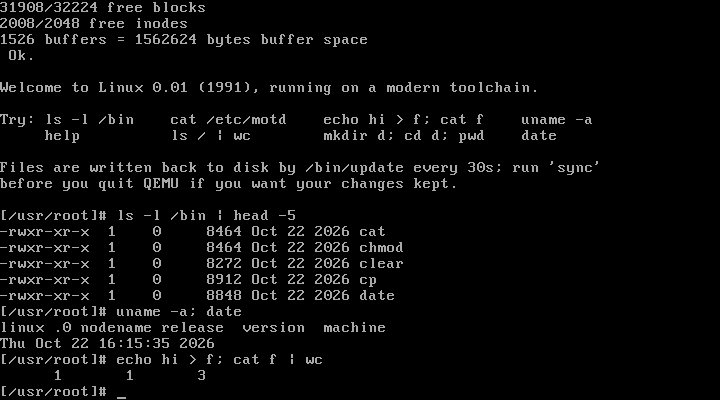
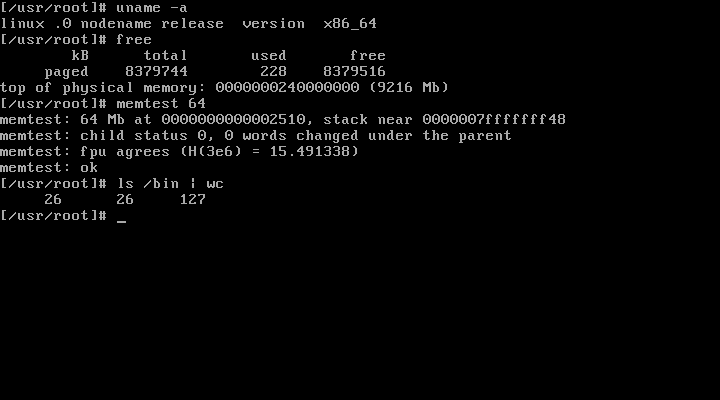
Docs and smoke test for the 64-bit port
The smoke test runs qemu-system-x86_64 with 6Gb, so processes live
above 4Gb, and checks uname -m and memtest. The README describes the
64-bit design. Stop tracking Python's __pycache__.

Claude-Session: https://claude.ai/code/session_0164EhquaVriyv3Nfyqho6ES

diff --git a/tools/smoketest.py b/tools/smoketest.py
@@ -30,14 +30,14 @@ SHIFTED = {'!': '1', '@': '2', '#': '3', '$': '4', '%': '5', '^': '6',
 
 
 class Vm:
-    def __init__(self, image, hd, geom, qemu):
+    def __init__(self, image, hd, geom, qemu, mem):
         self.tmp = tempfile.mkdtemp(prefix='linux001-')
         self.sock = os.path.join(self.tmp, 'monitor')
         disk = os.path.join(self.tmp, 'hd.img')
         shutil.copy(hd, disk)
         cyls, heads, secs = geom
         self.proc = subprocess.Popen(
-            [qemu, '-m', '16', '-display', 'none', '-boot', 'a',
+            [qemu, '-m', mem, '-display', 'none', '-boot', 'a',
              '-drive', 'file=%s,if=floppy,format=raw,readonly=on' % image,
              '-drive', 'file=%s,if=none,id=hd0,format=raw' % disk,
              '-device', 'ide-hd,drive=hd0,bus=ide.0,cyls=%d,heads=%d,secs=%d'
@@ -104,13 +104,16 @@ def main():
     ap.add_argument('--geometry', default='64,16,63', help='cyls,heads,secs')
     ap.add_argument('--bin', default='userland/build/bin',
                     help='staged programs, to work out expected output')
-    ap.add_argument('--qemu', default='qemu-system-i386')
+    ap.add_argument('--qemu', default='qemu-system-x86_64')
+    ap.add_argument('--mem', default='6G',
+                    help='guest memory; over 4G puts processes above 4Gb')
     a = ap.parse_args()
 
     nprogs = len(os.listdir(a.bin))
     shsize = os.path.getsize(os.path.join(a.bin, 'sh'))
     tests = [
         ('uname -s', 'linux .0'),
+        ('uname -m', 'x86_64'),
         ('echo pipe-ok | cat', 'pipe-ok'),
         ('echo one two three | wc -w', '%7d' % 3),
         ('echo redirected > /tmp/f; cat /tmp/f', 'redirected'),
@@ -127,10 +130,13 @@ def main():
         # several processes queueing disk writes at once (hd.c request list)
         ('cp /bin/sh /tmp/w1 & cp /bin/ls /tmp/w2 & sync; sync; echo sync-ok',
          'sync-ok'),
+        # copy-on-write over a fork, and the fpu state of two processes
+        ('memtest 16', 'memtest: ok', 120),
         ('exit 5', lambda l: re.match(r'child \d+ died with code 0500', l)),
     ]
 
-    vm = Vm(a.image, a.hd, [int(x) for x in a.geometry.split(',')], a.qemu)
+    vm = Vm(a.image, a.hd, [int(x) for x in a.geometry.split(',')], a.qemu,
+            a.mem)
     failed = 0
     try:
         prompt = lambda l: l.startswith('[/usr/root]#')
@@ -139,10 +145,12 @@ def main():
             print('\n'.join(l for l in vm.lines() if l))
             return 1
         print('ok   boot to shell prompt')
-        for cmd, expect in tests:
+        for test in tests:
+            cmd, expect = test[:2]
+            timeout = test[2] if len(test) > 2 else 15
             vm.type(cmd + '\n')
             check = expect if callable(expect) else (lambda l, e=expect: l == e)
-            if vm.wait_for(check, 15):
+            if vm.wait_for(check, timeout):
                 print('ok   %s' % cmd)
             else:
                 failed += 1

diff --git a/README.md b/README.md
@@ -1,54 +1,72 @@
-# Linux 0.01, on a modern toolchain
+# Linux 0.01, 64-bit
 
 This is Linus Torvalds' Linux 0.01 from September 1991, taken from the
-[kernel.org historic archive](https://cdn.kernel.org/pub/linux/kernel/Historic/linux-0.01.tar.gz),
-patched so it builds with a current GCC and binutils and boots to a working
-shell in QEMU.
+[kernel.org historic archive](https://cdn.kernel.org/pub/linux/kernel/Historic/linux-0.01.tar.gz)
+and ported to x86-64. The kernel runs in 64-bit long mode, the programs are
+64-bit, and every byte of RAM the BIOS reports is usable, including memory
+above 4 GB (up to a configurable 64 GB). It boots to a working shell in
+QEMU.
 
-The first commit in this repository is the untouched 1991 tarball, so
-`git diff <first commit>` shows every change made.
+It is still recognisably 0.01: the scheduler, the file system, the tty
+code, the buffer cache and most of the rest are the 1991 code. What had to
+be redesigned is the part 64-bit mode took away (segmentation and hardware
+task switching), described below.
 
-![Linux 0.01 running in QEMU](docs/screenshot.png)
+The history tells the story:
+- The first commit is the untouched 1991 tarball.
+- `8b8a4bb` is a 32-bit port that only modernises the toolchain.
+- The commits after it are the 64-bit port.
+
+![Linux 0.01 running in 64-bit mode in QEMU](docs/screenshot.png)
 
 ## Quick start
 
-You need `gcc` and binutils that can target 32-bit x86 (any x86-64 Linux
-distribution's normal packages; no multilib or libc needed), GNU `make`,
-`python3` and `qemu-system-i386`.
+You need:
+- `gcc` and binutils for x86-64 (the normal packages on any x86-64 Linux)
+- GNU `make`
+- `python3`
+- `qemu-system-x86_64`
 
 ```sh
-make run          # build everything and boot it in a QEMU window
-make run-curses   # same, in the terminal (Alt-2 for the QEMU monitor, then "quit")
-make test         # headless boot + scripted shell session, checks the output
+make run            # build everything, boot it in QEMU with 512 MB
+make run MEM=8G     # ... or with more memory
+make run-curses     # in the terminal (Alt-2 for the QEMU monitor, then "quit")
+make test           # headless boot with 6 GB + a scripted shell session
+                    # (TESTMEM=512M if the host can't spare 6 GB)
 ```
 
 `make` builds two images:
 
 - **`Image`**: a 1.44 MB boot floppy holding the boot sector and the kernel.
-- **`hd.img`**: a 32 MB hard disk with a single Minix partition, which is the
-  root file system.
+- **`hd.img`**: a 32 MB hard disk with one Minix partition, the root file
+  system.
 
 ## What you can do
 
-The kernel runs `/bin/sh` on the console. The shell supports pipes,
-redirection (`<`, `>`, `>>`), background jobs (`&`), `;`, `&&` and `||`,
-quoting, `$VAR` / `$?` / `$$`, and `*` and `?` globbing. Its built-in
-commands are `cd`, `pwd`, `export`, `unset`, `exit` and `help`.
+Init starts `/bin/sh` on the console. The shell supports:
+- pipes, and redirection with `<`, `>` and `>>`
+- background jobs (`&`), and `;`, `&&` and `||`
+- quoting, `$VAR`, `$?` and `$$`
+- `*` and `?` globbing
 
-These programs are in `/bin`:
+Its built-in commands are `cd`, `pwd`, `export`, `unset`, `exit` and `help`.
 
 | | |
 |---|---|
 | files | `ls [-la]` `cat` `cp` `mv` `rm [-rf]` `ln` `mkdir` `rmdir` `touch` `chmod` |
 | text | `echo` `wc [-lwc]` `head [-n]` |
-| system | `uname` `date` `sync` `kill` `sleep` `env` `clear` `update` `hello` |
+| system | `uname [-a]` `free` `date` `sync` `kill` `sleep` `env` `clear` `hello` |
+| tests | `memtest [Mb]` |
 
 Things to try:
 
-- `echo hi > f; cat f`
-- `ls / | wc`
-- `mkdir d; cd d; pwd`
-- `cat > notes`, then type some lines and end with Ctrl-D
+- `uname -a`: the machine is `x86_64`.
+- `free`: how much memory there is. Boot with `MEM=8G` to see more than 4 GB.
+- `memtest 256`: allocates 256 MB, forks, and checks that the child's
+  writes don't show in the parent (copy-on-write). Both processes also
+  do floating-point work at the same time and must get the same result.
+- `echo hi > f; cat f | wc`
+- `cat > notes`: type some lines, then end with Ctrl-D.
 
 Ctrl-C interrupts the running program. If you `exit` the shell, init
 starts a new one.
@@ -58,118 +76,151 @@ daemon (started by init, as Linus intended) runs `sync` every 30 seconds.
 Run `sync` yourself before closing QEMU if you want to keep your changes.
 `make hd.img` rebuilds the disk from scratch.
 
-## What was changed, and why
+## How the 64-bit port works
 
-The kernel was written for gcc 1.x, the a.out object format and Minix's
-`as86`. Very little of it actually depended on that. The changes fall into
-a few groups.
+**Booting.** The floppy boot sector still loads the kernel with the BIOS
+and switches to 32-bit protected mode, as in 1991. It also asks the BIOS
+for its memory map (`int 0x15`, `e820`) and leaves it for the kernel.
 
-**Build.**
+`boot/head.s` then sets up page tables, enables PAE and long mode, and
+jumps to the kernel. The kernel is linked at `0xffffffff80000000` but loaded
+at physical address 0.
 
-- New Makefiles, all sharing `Makefile.header`.
-- ELF objects are linked at address 0 by `tools/system.ld` and flattened with
-  `objcopy`.
-- `-fleading-underscore` keeps a.out's `_symbol` naming, so the hand-written
-  assembly links unchanged.
-- `tools/build.c` now glues raw binaries together instead of stripping
-  Minix/a.out headers.
+**The address space.** In 1991 every process was a 64 MB segment of one
+shared address space, told apart by segment bases. Long mode has no
+segment bases, so now:
 
-**Boot sector.** `boot/boot.s` was translated from as86 to GNU as
-(`.code16`). It is the same code with the same comments.
+- Each process has its own 4-level page tables.
+- The process sees itself at address 0 upwards, as before, but with 512 GB
+  of room instead of 64 MB. Its stack starts just under 512 GB.
+- The kernel occupies the top half of every address space. All physical
+  memory is mapped there at `0xffff800000000000`.
 
-**Inline assembly.** gcc 1.x let an `asm` statement clobber its own input
-registers and write to memory it had declared as input-only. Modern gcc
-either rejects that or quietly miscompiles it. These were the real bugs:
+The mapping means `get_free_page()` can still return a plain pointer, and
+the rest of the kernel didn't have to care where a page lives. `mem_map`,
+1991's page reference counts, is sized from the BIOS map at boot.
+`MAX_MEMORY` in `include/linux/config.h` caps the RAM used: the counts cost
+2 bytes per 4 kB page.
 
-- `INC_PIPE` made every pipe return the same byte forever.
-- `get_base` read through a register it had already overwritten.
+`fork()` copies the page tables and shares every page read-only, and the
+first write copies it (copy-on-write). This is 1991's `copy_page_tables`
+and `do_wp_page`, one level deeper.
 
-All of the kernel's asm got correct constraints:
+**Processes.** Long mode has no hardware task switch. These replace it:
 
-- dummy outputs for registers it clobbers
-- `"memory"` where it writes memory
-- `"=&"` where outputs must not share a register with an input
+- `switch_task` in `kernel/system_call.s` saves the registers C needs kept,
+  swaps kernel stacks and loads the next address space.
+- There is one TSS, which only holds the kernel stack pointer for the next
+  entry from user mode.
+- Each task has an 8 kB block: its `task_struct` with the kernel stack
+  above it.
+- FPU and SSE state is still switched lazily, 0.01's
+  `math_state_restore()`, now with `fxsave`/`fxrstor`.
 
-`<string.h>` is now plain C instead of 400 lines of string-instruction asm.
-`<stdarg.h>` uses the compiler builtins.
+**Task 0 and init.** In 1991, task 0 dropped to user mode and forked init,
+both running kernel code. Kernel code can't run in user mode without
+segments, so now:
 
-**Small fixes needed to run at all:**
+1. Task 0 stays in the kernel as the idle loop.
+2. Init starts as a kernel task, mounts root, opens the console, and execs
+   `/bin/init` into user mode.
+3. `/bin/init` runs the old spawn-a-shell loop, moved out of `init/main.c`.
 
-- *Disk access.* The IDE status register is per drive, so `hd.c` now selects
-  the drive before polling it. Without that, the BIOS's last probe of the
-  absent second drive reads back as "not ready".
-- *Direction flag.* gcc-compiled code assumes the CPU's direction flag is
-  clear, so the kernel clears it at every entry from assembly.
-- *Keyboard.* `keyboard.s` cleared only `%al` before using `%eax` as a table
-  index.
-- *Disk geometry.* `include/linux/config.h` has a `QEMU_HD` configuration
-  matching the emulated disk. Root is `/dev/hd1`.
+**System calls** still go through `int $0x80`, with the number in `%rax` and
+up to three arguments in `%rbx`, `%rcx` and `%rdx`. The registers are now
+64 bits wide. `struct regs` in `include/linux/sched.h` describes the saved
+registers, which `fork` and `execve` work on.
 
-**Fixes for real bugs that only show up today:**
+**Reaching user memory.** The kernel used to reach a process's memory
+through `%fs`, whose segment limit kept a process from pointing the kernel
+at kernel memory. Now the kernel uses user pointers directly, and
+`<asm/segment.h>` checks them instead. A bad pointer gets the process a
+SIGSEGV.
 
-- The CMOS clock stores two-digit years, which 0.01 read as 19xx (Y2K).
-- The month was decremented while still in BCD, which breaks dates in
-  October to December.
-- The `drive_busy` precedence bug and the `WIFEXITED` missing parenthesis
-  are fixed.
-- Interrupt races that modern gcc made easier to hit:
-  - The disk request queue could lose a request and hang the system.
-  - Keyboard echo could garble console output. The code assumed trap gates
-    disable interrupts; they don't.
-  - The tty line counter had an unprotected update.
-  
-  These are fixed as in later Linux versions.
+**Signals** are delivered by `kernel/signal.c` (1991: assembly). The frame
+on the user stack is unwound by a restorer that ends with a user-mode
+`iretq`. That instruction puts back rip, the flags and rsp in one go.
 
-**Small quality-of-life changes:**
+**Unchanged.** The formats stay those of 1991:
+- the Minix v1 file system
+- the 1 kB-header ZMAGIC a.out executables
 
-- A US keyboard map by default. Linus' Finnish one is kept: assemble
-  `kernel/keyboard.s` with `--defsym KBD_FINNISH=1`.
-- init starts a new shell when the old one exits, as in Linux 0.11.
+An a.out header now marks x86-64 code in its machine-type byte, so a 1991
+binary is refused rather than run as the wrong kind of code.
 
-Everything else is the 1991 code. That includes:
+### 1991 bugs the port turned up
 
-- the 8 MB memory limit and the 64 MB-per-process segments
+- `insert_into_queues()` in `fs/buffer.c` wrote through a NULL pointer
+  whenever a hash chain was empty. In 1991 that hit an unused page-directory
+  entry. Now address 0 belongs to the running process, and the write
+  corrupted its code.
+- `exec()` loaded binaries over about 520 kB to the wrong offset (a
+  double-indirect block offset), and its argument-overflow check could
+  never be true.
+- `get_free_page()` scanned all of `mem_map` for every page. That was fine
+  for 1,500 pages, but with millions it made large allocations quadratic.
+
+### From the earlier modern-toolchain port
+
+These came with the first, 32-bit port and still apply:
+
+- **Build.** GNU as and ld replace as86 and Minix. `-fleading-underscore`
+  keeps the `_symbol` names the assembly uses.
+- **Inline assembly.** All of it has correct constraints. gcc 1.x let an
+  `asm` statement clobber its own inputs; gcc today miscompiles that.
+- **Plain C.** `<string.h>` is C, and `<stdarg.h>` uses the compiler
+  builtins.
+- **Disk.** The IDE driver selects the drive before polling it.
+- **Interrupt races.** Three are fixed, in the disk queue, the console and
+  the tty line counter.
+- **Clock.** The CMOS date handling is fixed (Y2K, and BCD months).
+- **Small changes.** A US keyboard map, with Linus' Finnish one available
+  through `--defsym KBD_FINNISH=1`. init respawns the shell, as in 0.11.
+
+Still 1991, besides the code:
+- 64 tasks at most
 - the `0133` umask
-- `uname` reporting `linux .0`
-- Minix-v1-only file systems with 14-character names
+- `uname`'s placeholder fields, apart from the machine field
+- Minix v1 file systems with 14-character names
 - no `rename()`, symlinks or `mknod()`
 
 ## The userland (`userland/`)
 
-In 1991 Linux borrowed its programs from Minix. To get a shell, this
-repository has its own small userland:
+In 1991 Linux borrowed its programs from Minix. This repository has its own:
 
-- `userland/lib`: a small C library (syscall stubs, stdio, malloc,
-  directories, time) built against the kernel's own `include/`, which was
-  also the libc header set at the time.
-- `userland/bin`: the shell and the programs listed above.
-- `userland/mkaout.py`: converts the linked ELF files into the ZMAGIC a.out
-  format that 0.01's `exec()` loads. Each program is linked at address 0,
-  with its text and data at file offset 1024.
-- `tools/mkrootfs.py`: writes the disk image (MBR, Minix v1 file system,
-  device nodes from `userland/devices`) without needing root, loop devices
-  or `mkfs.minix`.
+- **`userland/lib`**: a small C library: syscall stubs, stdio, malloc,
+  directories and time. It is built against the kernel's own `include/`,
+  which was also the libc header set at the time.
+- **`userland/bin`**: `init`, the shell and the programs listed above.
+- **`userland/mkaout.py`**: turns the linked 64-bit ELF files into the
+  ZMAGIC a.out format that `exec()` loads.
+- **`tools/mkrootfs.py`**: writes the disk image (MBR, Minix v1 file system,
+  device nodes from `userland/devices`) without root, loop devices or
+  `mkfs.minix`.
 
-To add a program, drop `foo.c` into `userland/bin`, add `foo` to `PROGS`
-in `userland/Makefile`, and run `make hd.img`.
+To add a program, put `foo.c` in `userland/bin`, add `foo` to `PROGS` in
+`userland/Makefile`, and run `make hd.img`.
 
 ## Running elsewhere
 
-Anything that emulates an IBM PC/AT should work: QEMU, Bochs or 86Box. It
-needs a BIOS that can boot a floppy, an IDE disk on the legacy ports
-(0x1F0, IRQ 14) and a VGA text console.
+It runs on anything that emulates a PC with a 64-bit CPU: QEMU, Bochs or
+86Box. It needs:
+- a BIOS that boots floppies
+- an IDE disk on the legacy ports (0x1F0, IRQ 14)
+- a VGA text console
 
-Real modern hardware almost certainly won't work. It would need legacy
-BIOS boot, a disk controller in IDE compatibility mode, and the exact disk
-geometry hard-coded in `config.h`. 0.01 also uses no more than 8 MB of RAM.
+On real hardware you would need legacy BIOS boot, a disk controller in IDE
+compatibility mode, and the exact disk geometry hard-coded in `config.h`.
+Without a 64-bit CPU, `head.s` prints a message and stops.
 
 If you change the disk geometry, change it in two places: `HD_TYPE` in
-`include/linux/config.h` and `HD_CYLS`/`HD_HEADS`/`HD_SECS` in the
+`include/linux/config.h`, and `HD_CYLS`/`HD_HEADS`/`HD_SECS` in the
 `Makefile`.
 
 ## Debugging
 
-`tools/system` is an ELF file with symbols. To debug the kernel in QEMU:
+`tools/system` is a 64-bit ELF file with symbols. To debug the kernel in
+QEMU:
 
 ```sh
 make run QEMUEXTRA="-s -S"         # in one terminal
